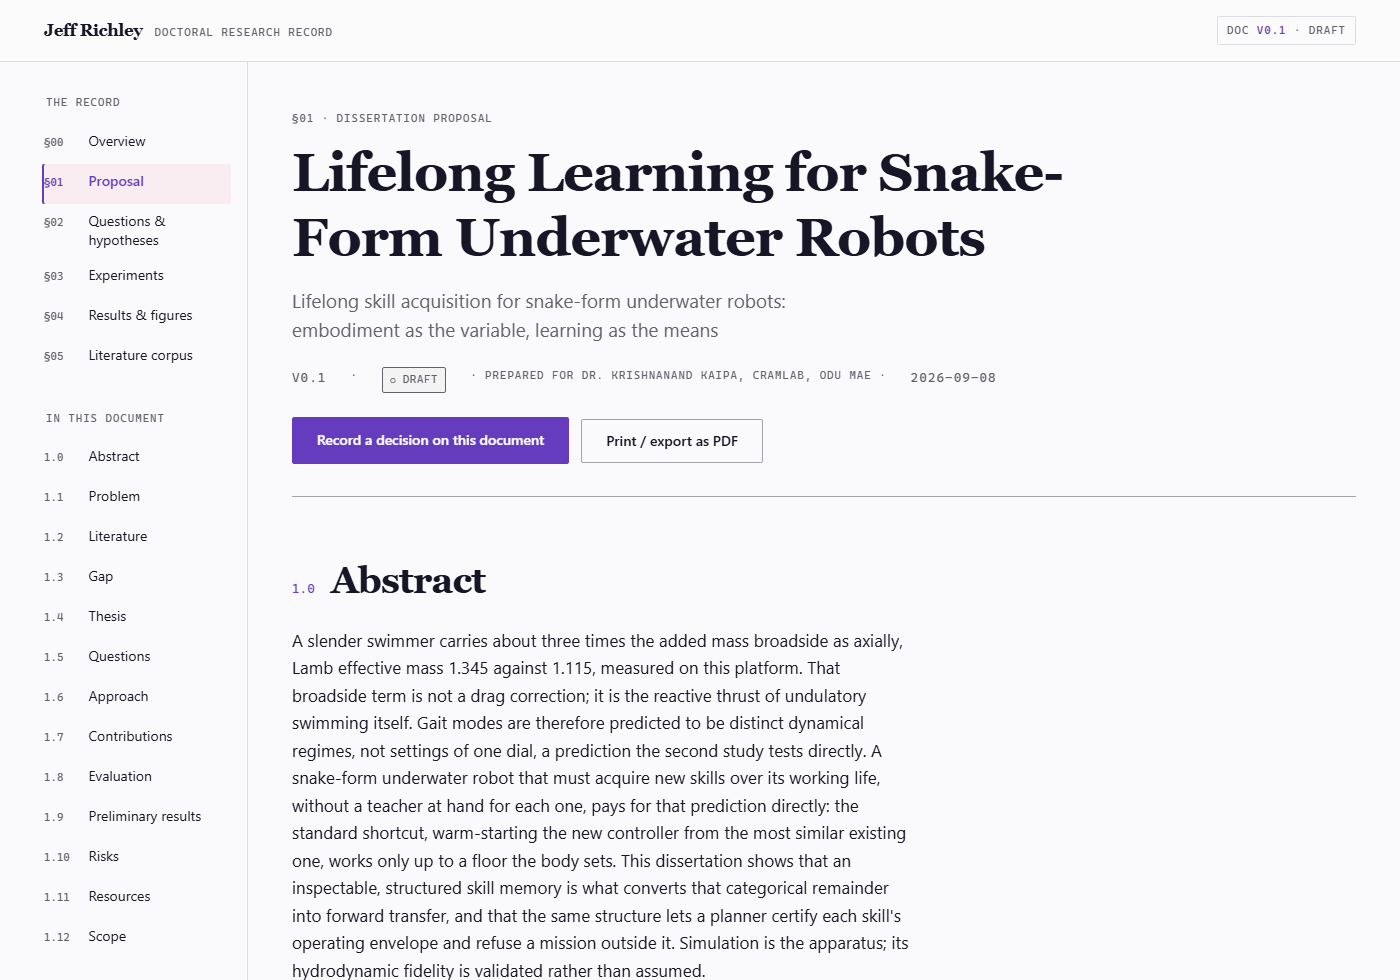
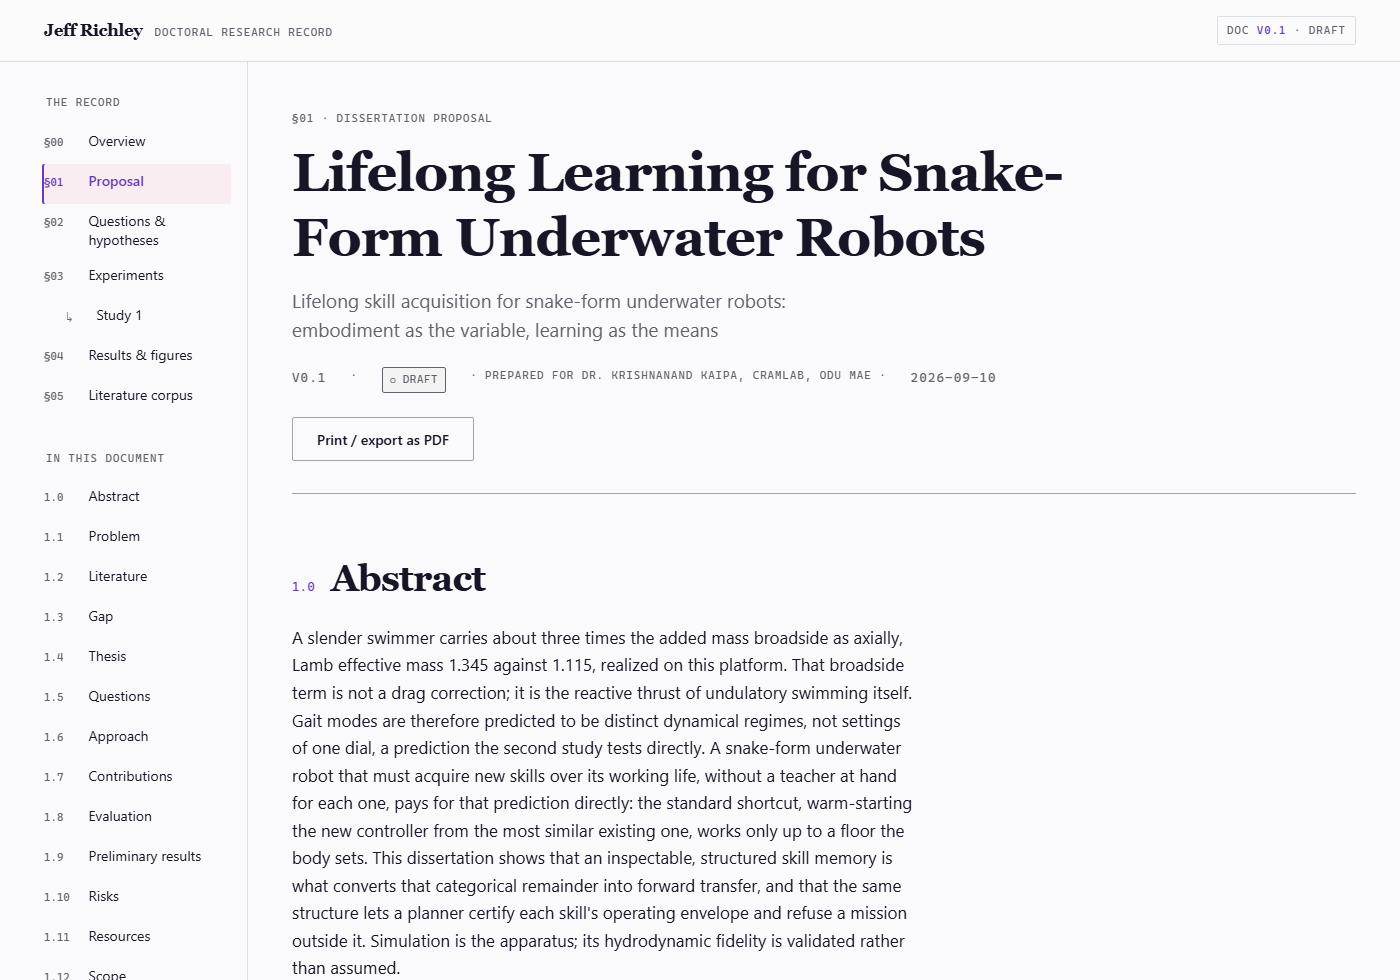
chore(proposal): cut v0.1 dated 2026-09-10, and re-capture the shot of it
The version number stays v0.1. Nothing has a decision recorded against it yet, so
§07's rule that a number with a decision against it is never re-cut is not in
play, and the number becomes official when the committee acts on it.

dated is when the version was cut, not when it is sent. Krishna sees this on
Tuesday and the date still reads the 10th.

The date is wired, not coincidental. BUILD_DATE also renders 2026-09-10 today, so
grepping the page for the date proves nothing on its own. Setting dated to
2019-03-04 moved §01's header to 2019-03-04 and moved nothing else; restoring
returned it. Worth doing because the sibling field status is dead: Draft is
hardcoded at two call sites and the frontmatter status is never read, so it
renders correctly tonight by accident. That is filed separately and deliberately
untouched here.

§07's surface for this is the readiness condition rather than a second version
string, and it was hand-authored as not met. It now reads met, with what was cut
and why the number stays.

The screenshot is re-captured after the build, opened and read rather than
trusted by byte count: the badge reads DOC V0.1 · DRAFT, the meta line reads
v0.1 · Draft · prepared for Dr. Krishnanand Kaipa, CRAMLab, ODU MAE · 2026-09-10,
§05 reads Literature corpus, §1.0 opens on the added mass, and the rail carries
1.0 through 1.12. Same 1400x980 as the shot it replaces. The phone shot needed
nothing and is untouched.

phd-lab#46, phd-lab#47.
[…]

diff --git a/content/readiness.md b/content/readiness.md
@@ -23,6 +23,6 @@ conditions:
     met: true
     evidence: "No hardware and no sim-to-real claim; morphology is bounded to swimming bodies, with the reason the mechanism claim has no purchase beyond them."
   - condition: "Version number cut and dated"
-    met: false
-    evidence: "The document is still v0.1 and the cut is Jeff's own act. Owned by phd-lab#46."
+    met: true
+    evidence: "Cut at v0.1, dated 2026-09-10. The number stays v0.1 because nothing has a decision recorded against it yet; the date is when the version was cut, not when it is sent. §01's header carries both."
 ---

diff --git a/content/proposal.md b/content/proposal.md
@@ -2,7 +2,7 @@
 version: v0.1
 status: draft
 prepared_for: "Dr. Krishnanand Kaipa, CRAMLab, ODU MAE"
-dated: 2026-09-08
+dated: 2026-09-10
 subtitle: "Lifelong skill acquisition for snake-form underwater robots: embodiment as the variable, learning as the means"
 risks:
   - risk: "Coursework pace, not research, gates the calendar (15 coursework credits remain)"
